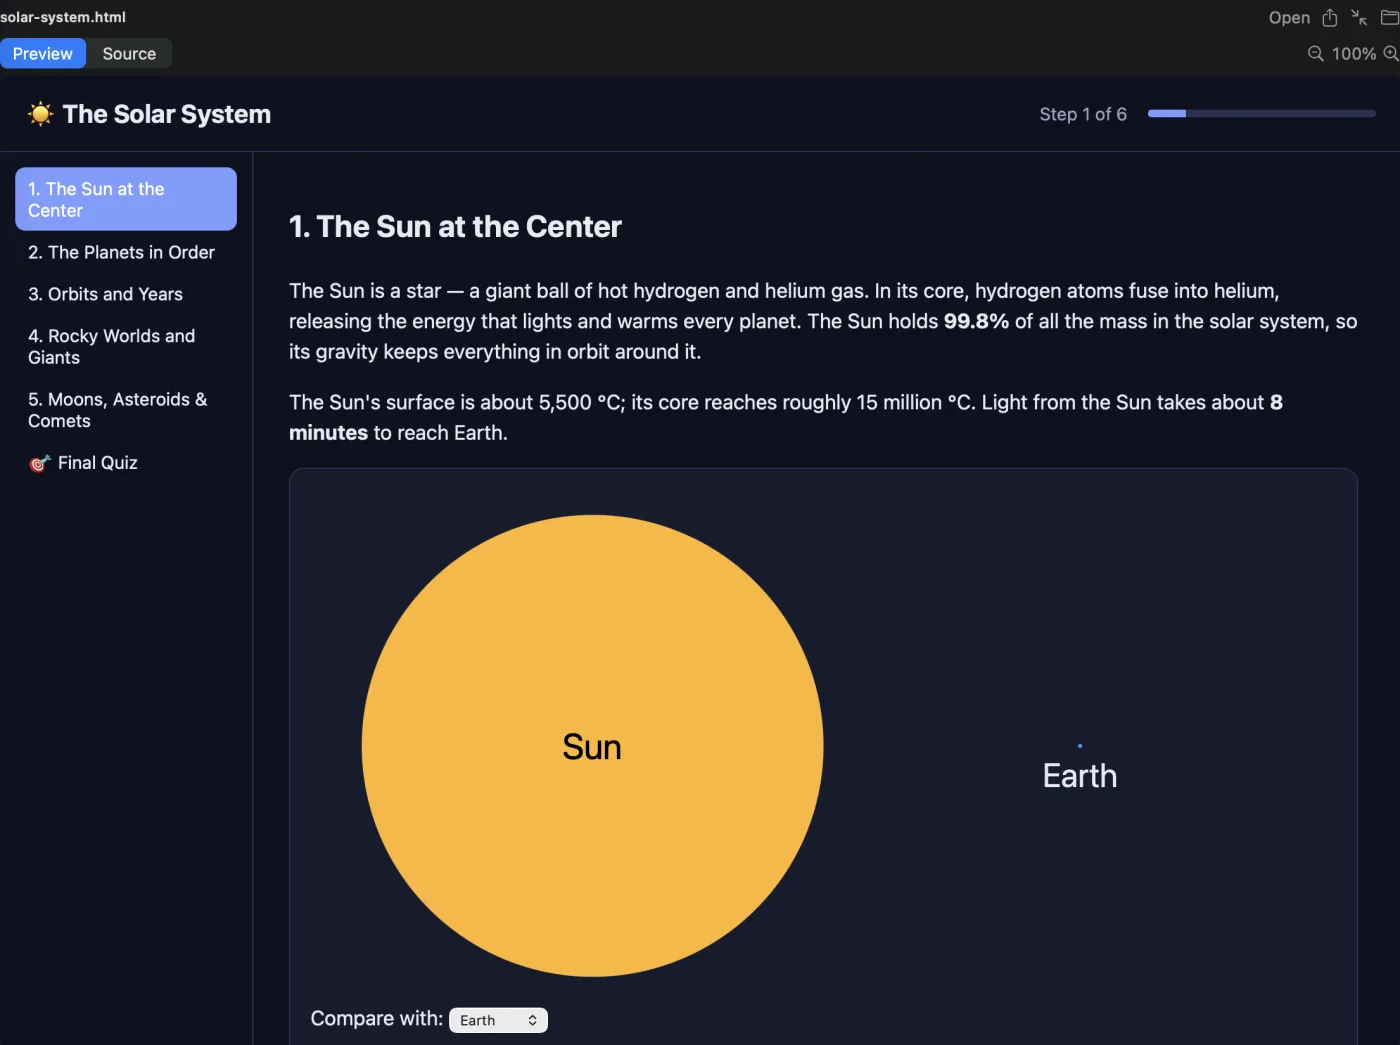
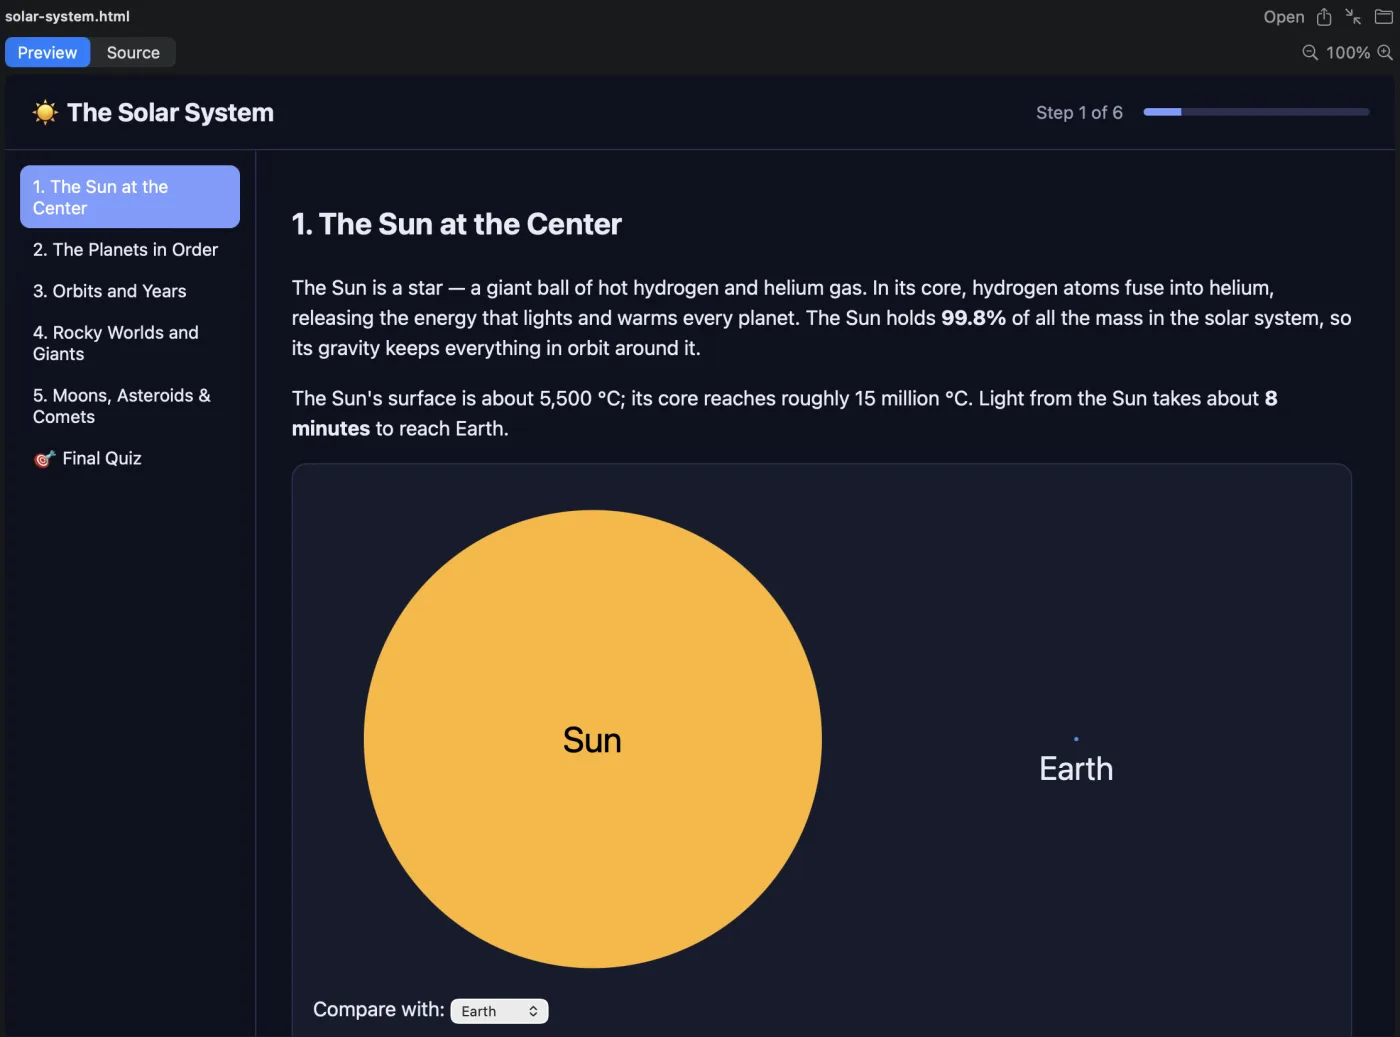
Site: course shot no longer clipped at the left edge

diff --git a/index.html b/index.html
@@ -558,7 +558,7 @@
       <figcaption><b>A podcast episode, from one sentence</b><span>Three minutes on how coffee is grown: researched with sources, written for two hosts, voiced with the Mac’s own voices, and checked before it said done.</span></figcaption>
     </figure>
     <figure>
-      <div class="frame"><img class="zoom" src="assets/shots/crop-course.webp" data-full="assets/shots/course.webp" alt="An interactive course on the solar system open in Naseem: a lesson list, the first lesson, and a Sun-versus-Earth size comparison you can change" width="1400" height="1045" loading="lazy"></div>
+      <div class="frame"><img class="zoom" src="assets/shots/crop-course.webp" data-full="assets/shots/course.webp" alt="An interactive course on the solar system open in Naseem: a lesson list, the first lesson, and a Sun-versus-Earth size comparison you can change" width="1400" height="1037" loading="lazy"></div>
       <figcaption><b>A course you can play with</b><span>Five lessons on the solar system and a quiz, in one page. Pick a planet and see it next to the Sun — then share the page with anyone.</span></figcaption>
     </figure>
     <figure>
